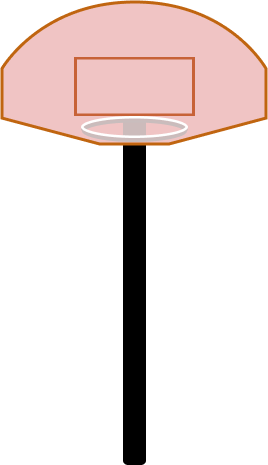
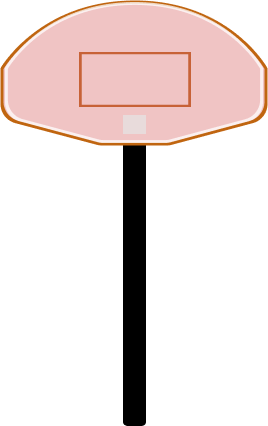
added priority to the rims and other components

Changed region(s): [[0.0, 0.0, 1.0, 0.3662]]

diff --git a/lib/components/ball.dart b/lib/components/ball.dart
@@ -7,11 +7,13 @@ import 'package:basketball_game/constants/image_assets.dart';
 import 'package:flame/collisions.dart';
 import 'package:flame/components.dart';
 import 'package:flame/events.dart';
+import 'package:flame/flame.dart';
 import 'package:flame_audio/flame_audio.dart';
 import 'package:flame_forge2d/flame_forge2d.dart';
 
 class BallComponent extends BodyComponent
     with Draggable, CollisionCallbacks, ContactCallbacks {
+  BallComponent() : super(priority: 7);
   late SpriteComponent _ball;
   late Filter filter = Filter()
     ..categoryBits = 2
@@ -34,10 +36,9 @@ class BallComponent extends BodyComponent
       ..sprite = await gameRef.loadSprite(ImageAssets.basketballSprite)
       ..anchor = Anchor.center
       ..opacity = 1
-      ..size = Vector2.all(9);
+      ..size = Vector2.all(8.8);
     add(_ball);
     renderBody = false;
-
   }
 
   @override
@@ -46,19 +47,19 @@ class BallComponent extends BodyComponent
     shape.radius = 4.0;
     Vector2 ballPos = Vector2(
         _ballPosition.nextInt(gameRef.size.x ~/ 1.15).toDouble() + 1,
-        gameRef.size.y);
+        gameRef.size.y-3);
     print(ballPos);
     BodyDef bodyDef = BodyDef(
-      linearDamping: 1,
+      linearDamping: 0.6,
       userData: this,
-      angularDamping: .8,
+      angularDamping: 0,
       //linearVelocity: Vector2(0, 50),
-      angularVelocity: .3,
+      angularVelocity: 0,
       position: ballPos,
       type: BodyType.dynamic,
     );
     fixtureDef = FixtureDef(shape,
-        friction: 0.1, density: 4.0, restitution: 0.1, filter: filter);
+        friction: 0, density: 3.0, restitution: 0.15, filter: filter);
     return world.createBody(bodyDef)..createFixture(fixtureDef);
   }
 
@@ -74,8 +75,9 @@ class BallComponent extends BodyComponent
   @override
   bool onDragUpdate(DragUpdateInfo info) {
     if (_canSwipe) {
+      body.linearVelocity = info.delta.game*100;
       body.applyLinearImpulse(
-        Vector2(info.delta.game.x, -5.2) * 2000,
+        Vector2(info.delta.game.x, -5)*8000 ,
       );
       _createNewBall = true;
     }
@@ -90,13 +92,14 @@ class BallComponent extends BodyComponent
     super.update(dt);
     if (body.position.y <= 55) {
       _canSwipe = false;
-      if (body.position.y <= 18) {
+      if (body.position.y <= 15) {
         body.createFixture(FixtureDef(CircleShape()..radius = 4.5,
             filter: Filter()
               ..maskBits = 2
               ..categoryBits = 4));
+        priority = 5;
         body.applyForce(
-            Vector2(0, 8000 * body.position.distanceTo(Vector2(0, 0))),
+            Vector2(0, 15000 * body.position.distanceTo(Vector2(0, 0))),
             point: body.position);
       } else if (body.linearVelocity.y < Vector2.all(0.1).y && !_hasPeaked) {
         _hasPeaked = true;

diff --git a/lib/components/rim.dart b/lib/components/rim.dart
@@ -3,6 +3,7 @@ import 'dart:math';
 import 'package:basketball_game/components/boundary.dart';
 import 'package:basketball_game/constants/audio.dart';
 import 'package:basketball_game/constants/image_assets.dart';
+import 'package:basketball_game/game/basketball_game.dart';
 import 'package:flame/components.dart';
 import 'package:flame/events.dart';
 import 'package:flame_audio/flame_audio.dart';
@@ -13,7 +14,7 @@ class RimComponent extends BodyComponent with Draggable, ContactCallbacks {
   final Vector2 position;
   final bool collidesWithBall;
 
-  RimComponent(this.position, this.collidesWithBall);
+  RimComponent(this.position, this.collidesWithBall) : super(priority: 3);
 
   @override
   Future<void> onLoad() async {
@@ -27,18 +28,20 @@ class RimComponent extends BodyComponent with Draggable, ContactCallbacks {
     Filter filter = Filter()
       ..categoryBits = collidesWithBall ? 0x0001 : 0x0002
       ..maskBits = collidesWithBall ? 0x0002 : 0x0004;
-    Shape shape = CircleShape()..radius = 0.6;
+    Shape shape = CircleShape()..radius = 0.4;
     // print(ballPos);
     BodyDef bodyDef = BodyDef(
       //linearDamping: 0.5,
       userData: this,
-      gravityScale: Vector2(0,20),
+      gravityScale: Vector2(0, 20),
       //angularDamping: .8,
       position: position,
       type: BodyType.static,
     );
     FixtureDef fixtureDef =
-        FixtureDef(shape, friction: .1, restitution: .2, filter: filter);
+        FixtureDef(shape, friction: .0, restitution: .0a,
+            density: 0,
+            filter: filter);
     return world.createBody(bodyDef)..createFixture(fixtureDef);
   }
 
@@ -50,4 +53,35 @@ class RimComponent extends BodyComponent with Draggable, ContactCallbacks {
       FlameAudio.play(AudioAssets.hitWall2, volume: 0.2);
     }
   }*/
+}
+
+class BackRimComponent extends SpriteComponent with HasGameRef<BasketBallGame> {
+  BackRimComponent() : super(priority: 4);
+
+  @override
+  void onLoad() async {
+    super.onLoad();
+    sprite = await gameRef.loadSprite(ImageAssets.backRim);
+    position = Vector2(gameRef.size.x / 2 - 7, 24.5);
+    width = gameRef.size.x * 0.37;
+    height = 2;
+    //height = game.size.y * 0.9;
+    //anchor = Anchor.center;
+  }
+}
+
+class FrontRimComponent extends SpriteComponent
+    with HasGameRef<BasketBallGame> {
+  FrontRimComponent() : super(priority: 6);
+
+  @override
+  void onLoad() async {
+    super.onLoad();
+    sprite = await gameRef.loadSprite(ImageAssets.frontRim);
+    position = Vector2(gameRef.size.x / 2 - 7, 26.6);
+    width = gameRef.size.x * 0.37;
+    height = 2;
+    //height = game.size.y * 0.9;
+    //anchor = Anchor.center;
+  }
 }

diff --git a/lib/game/basketball_game.dart b/lib/game/basketball_game.dart
@@ -35,20 +35,14 @@ class BasketBallGame extends Forge2DGame
       AudioAssets.shoot,
       AudioAssets.shoot2
     ]);
-    add(
+    addAll([
       MuralComponent(),
-
-      //BasketBallStandComponent(),
-    );
-    //add(BasketBallStandComponent());
-    add(
       BackboardComponent(),
-    );
-    /*add(
-      BackboardSvgComponent(),
-    );*/
-    add(RimComponent(Vector2((gameSize.x/2)+5.8, 28), false));
-    add(RimComponent(Vector2((gameSize.x/2)-5.8, 28), false));
-    add(BallComponent());
+      RimComponent(Vector2((gameSize.x/2)+6, 28), false),
+      RimComponent(Vector2((gameSize.x/2)-6.7, 28), false),
+      BackRimComponent(),
+      FrontRimComponent(),
+      BallComponent()
+    ]);
   }
 }

diff --git a/lib/components/boundary.dart b/lib/components/boundary.dart
@@ -4,7 +4,7 @@ import 'package:flame_forge2d/flame_forge2d.dart';
 List<Component> createBoundaries(Forge2DGame game) {
   Vector2 gameSize = game.screenToWorld(game.camera.viewport.effectiveSize);
   final topLeft = Vector2.zero();
-  final bottomRight = Vector2(gameSize.x, gameSize.y);
+  final bottomRight = Vector2(gameSize.x, gameSize.y-2);
   final topRight = Vector2(bottomRight.x, topLeft.y);
   final bottomLeft = Vector2(topLeft.x, bottomRight.y);
 

diff --git a/lib/constants/image_assets.dart b/lib/constants/image_assets.dart
@@ -6,6 +6,8 @@ class ImageAssets {
       'basketball_flame.png';
   static const String backboard= 'backboard.png';
   static const String stand= 'basketball_stand.png';
+  static const String backRim= 'back_rim.png';
+  static const String frontRim= 'front_rim.png';
   static const String standSvg= 'svg/stand.svg';
   static const String mural1 = 'mural1.png';
   static const String mural2 = 'mural2.png';

diff --git a/lib/components/mural_component.dart b/lib/components/mural_component.dart
@@ -3,6 +3,8 @@ import 'package:basketball_game/game/basketball_game.dart';
 import 'package:flame/components.dart';
 
 class MuralComponent extends SpriteComponent with HasGameRef<BasketBallGame> {
+
+  MuralComponent(): super(priority: 0);
   @override
   Future<void> onLoad() async {
     await super.onLoad();

diff --git a/lib/components/backboard.dart b/lib/components/backboard.dart
@@ -8,6 +8,8 @@ import '../game/basketball_game.dart';
 
 class BackboardComponent extends SpriteComponent
     with HasGameRef<BasketBallGame> {
+
+  BackboardComponent(): super(priority: 1);
   @override
   void onLoad() async{
     super.onLoad();
